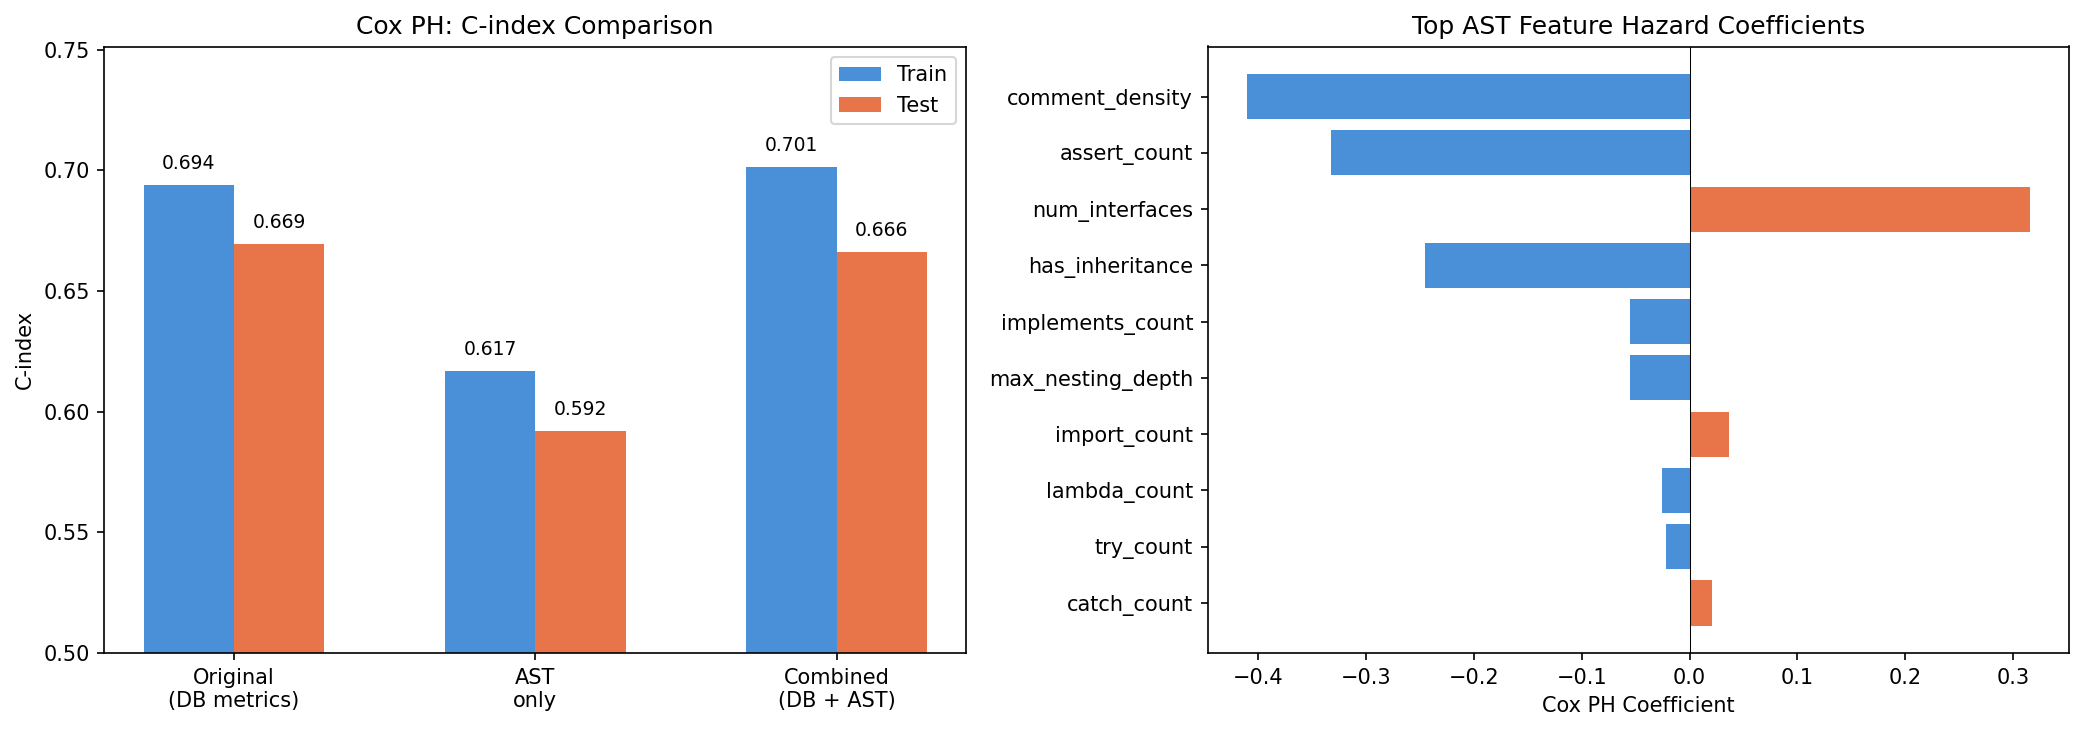
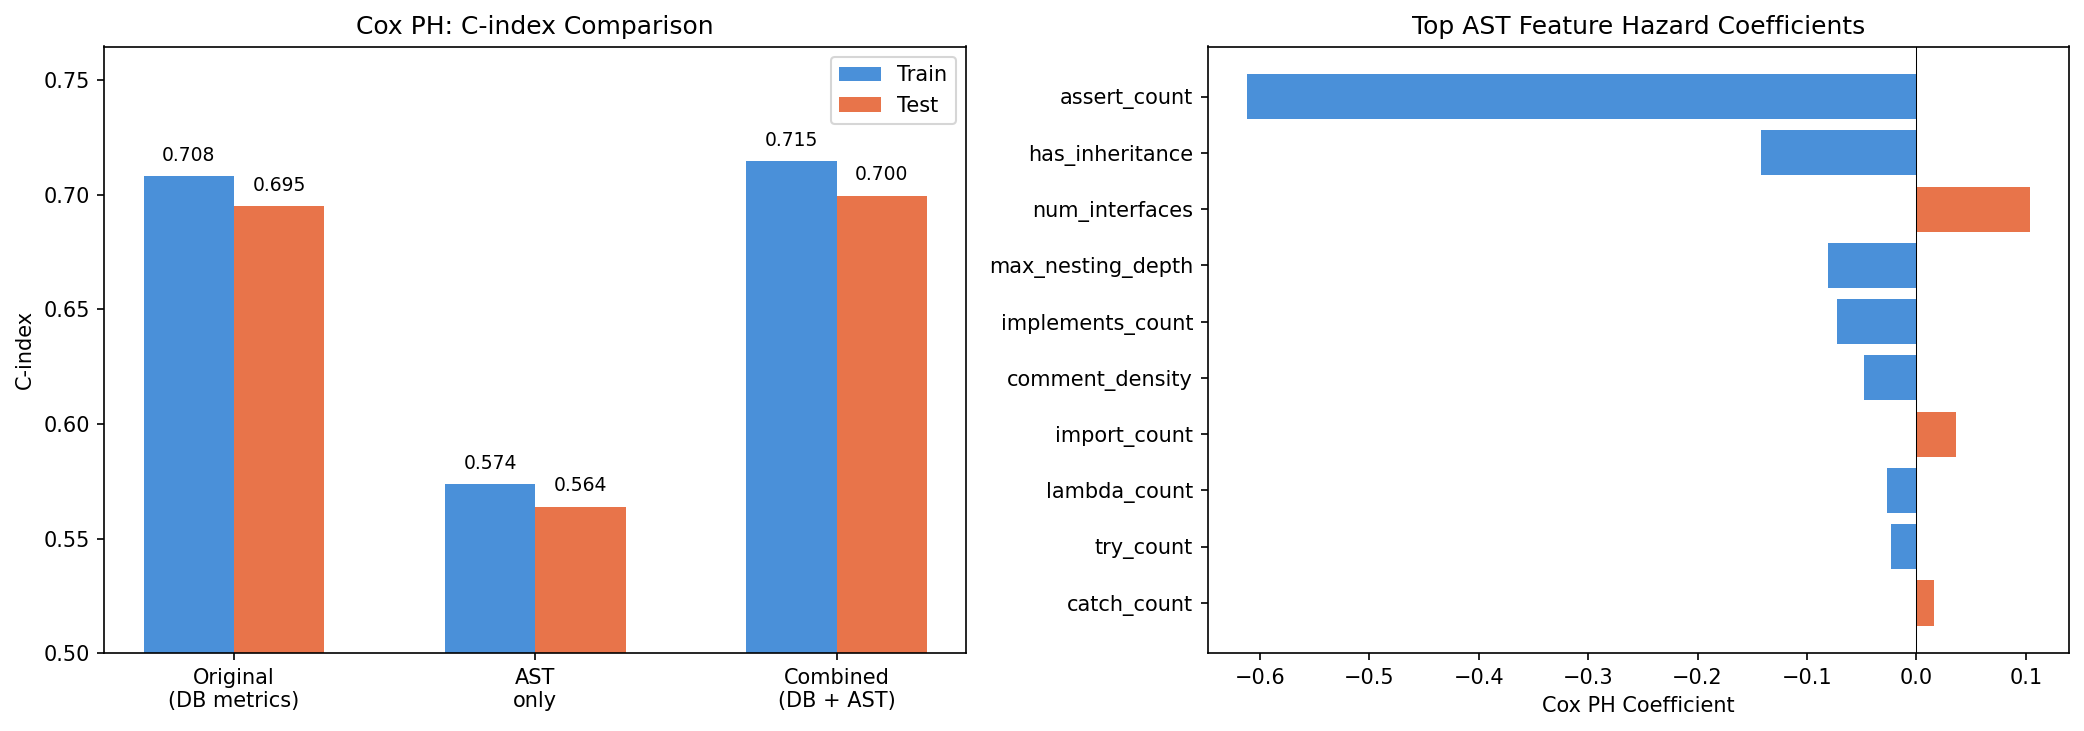
feat: expand AST extraction to 4 repos (vfs + ognl) to reduce overfitting
- Added commons-vfs and ognl to REPO_MAP in time_travel_extract.py
- Added commons-vfs and ognl to extract_features.py repo choices
- Updated ast_integration.py log to dynamically show repo count
- Increased merged dataset from 1,778 to 2,680 rows (+50.7%)
- Test C-index improvement: +0.0047 (+0.7%), from 0.6950 to 0.6997
- AST features now IMPROVE the model (previously -0.0031)

diff --git a/src/ast_parser/extract_features.py b/src/ast_parser/extract_features.py
@@ -288,7 +288,7 @@ def process_repo(repo_name: str, limit: int = 0) -> list[dict]:
 
 def main():
     ap = argparse.ArgumentParser(description="AST Feature Extraction via Tree-sitter")
-    ap.add_argument("--repo", choices=["commons-collections", "commons-io", "all"],
+    ap.add_argument("--repo", choices=["commons-collections", "commons-io", "commons-vfs", "commons-ognl", "all"],
                      default="all", help="Which repo to process")
     ap.add_argument("--limit", type=int, default=0,
                      help="Max files per repo (0 = all)")
@@ -299,6 +299,10 @@ def main():
         repos.append("commons-collections")
     if args.repo in ("commons-io", "all"):
         repos.append("commons-io")
+    if args.repo in ("commons-vfs", "all"):
+        repos.append("commons-vfs")
+    if args.repo in ("commons-ognl", "all"):
+        repos.append("commons-ognl")
     
     all_features = []
     for repo in repos:

diff --git a/src/models/ast_integration.py b/src/models/ast_integration.py
@@ -30,7 +30,7 @@ def main():
     # Filter training set to only the 2 repos we have AST data for
     target_projects = ast_df["PROJECT_ID"].unique().tolist()
     train_subset = train_df[train_df["PROJECT_ID"].isin(target_projects)].copy()
-    print(f"  Training subset (2 repos): {len(train_subset):,} rows")
+    print(f"  Training subset ({len(target_projects)} repos): {len(train_subset):,} rows")
 
     # ── Aggregate AST features per (PROJECT_ID, FILE) ───────────
     # The AST data has multiple rows per file (one per fault commit).

diff --git a/src/ast_parser/time_travel_extract.py b/src/ast_parser/time_travel_extract.py
@@ -41,6 +41,8 @@ parser = Parser(JAVA)
 REPO_MAP = {
     "org.apache:collections": "commons-collections",
     "org.apache:commons-io": "commons-io",
+    "org.apache:vfs": "commons-vfs",
+    "org.apache:ognl": "commons-ognl",
 }
 
 TARGET_PROJECTS = list(REPO_MAP.keys())
